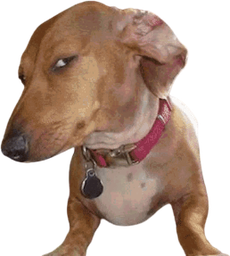
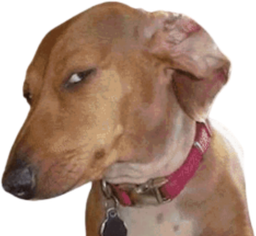
Suspicious dog: new close-up image, un-mirrored KPI, peek-in animation
Swaps in the close-up crop of the meme (trimmed + downscaled from the
provided 3125px PNG) and stops mirroring it in the KPI pill so it
matches the source image everywhere. Adds a peek-in animation on the
card badge: the dog rises up over the corner, overshoots its tilt a
touch, and settles (0.8s, plays on mount). The badge's resting
rotation moved into a --peek-rot custom property because the keyframes
own `transform` while animating.

diff --git a/src/components/SeasonGameCard.tsx b/src/components/SeasonGameCard.tsx
@@ -15,7 +15,10 @@ export const SEASON_PILL_HEIGHT = PILL_HEIGHT;
 
 // Side-eye dog meme on the corner of the predicted winner's half when the
 // pick defies the power rankings - same placement pattern as the weekly
-// page's underdog/boldest emoji badges.
+// page's underdog/boldest emoji badges. Peeks in with an animation on
+// mount (see suspicious-peek in globals.css); the rotation lives in the
+// --peek-rot custom property because the keyframes own `transform`, so a
+// static inline rotate would be overwritten while the animation runs.
 function SuspiciousBadge({ side }: { side: "left" | "right" }) {
   const positionStyle = { [side === "left" ? "left" : "right"]: "-10px" } as const;
   return (
@@ -25,9 +28,11 @@ function SuspiciousBadge({ side }: { side: "left" | "right" }) {
       className="absolute -top-2.5 z-40 h-11 w-auto pointer-events-none select-none"
       style={{
         ...positionStyle,
+        "--peek-rot": side === "left" ? "-22deg" : "22deg",
         transform: `rotate(${side === "left" ? "-22deg" : "22deg"})`,
+        animation: "suspicious-peek 0.8s cubic-bezier(0.34, 1.2, 0.64, 1) both",
         filter: "drop-shadow(0 2px 3px rgba(0,0,0,0.6))",
-      }}
+      } as React.CSSProperties}
     />
   );
 }

diff --git a/src/app/globals.css b/src/app/globals.css
@@ -18,3 +18,25 @@ body {
   color: var(--foreground);
   font-family: Arial, Helvetica, sans-serif;
 }
+
+/* Suspicious-pick dog badge: rises up over the card corner like it's
+   slowly peeking in to judge the pick, overshoots its tilt a touch, then
+   settles. --peek-rot is the badge's resting rotation (mirrored per side),
+   set inline where the badge is rendered. */
+@keyframes suspicious-peek {
+  0% {
+    opacity: 0;
+    transform: translateY(26px) rotate(0deg) scale(0.8);
+  }
+  55% {
+    opacity: 1;
+    transform: translateY(-3px) rotate(var(--peek-rot)) scale(1.05);
+  }
+  75% {
+    transform: translateY(1px) rotate(calc(var(--peek-rot) * 1.25)) scale(1);
+  }
+  100% {
+    opacity: 1;
+    transform: translateY(0) rotate(var(--peek-rot)) scale(1);
+  }
+}

diff --git a/src/app/predictor/page.tsx b/src/app/predictor/page.tsx
@@ -122,7 +122,7 @@ export default function PredictorPage() {
                 className="rounded-full border-2 border-white text-center pl-4 pr-6 py-3 flex items-center gap-2.5"
                 style={{ background: "#1b2947", boxShadow: "0 6px 16px -6px rgba(0,0,0,0.5)" }}
               >
-                <img src="/suspicious-dog.png" alt="" className="h-10 w-auto select-none" style={{ transform: "scaleX(-1)" }} />
+                <img src="/suspicious-dog.png" alt="" className="h-10 w-auto select-none" />
                 <div className="text-left">
                   <div className="text-2xl leading-none" style={{ fontFamily: "var(--font-display)" }}>
                     {suspiciousCount}

diff --git a/src/lib/predictorShareImage.ts b/src/lib/predictorShareImage.ts
@@ -168,14 +168,7 @@ function drawSuspiciousPill(ctx: CanvasRenderingContext2D, displayFont: string, 
   ctx.lineWidth = 2;
   ctx.stroke();
 
-  if (dog) {
-    // Mirrored so the dog side-eyes toward the record pill next door.
-    ctx.save();
-    ctx.translate(x + padX + dogW / 2, y + h / 2);
-    ctx.scale(-1, 1);
-    ctx.drawImage(dog, -dogW / 2, -dogH / 2, dogW, dogH);
-    ctx.restore();
-  }
+  if (dog) ctx.drawImage(dog, x + padX, y + h / 2 - dogH / 2, dogW, dogH);
 
   const textX = x + padX + dogW + gap;
   ctx.textAlign = "left";
